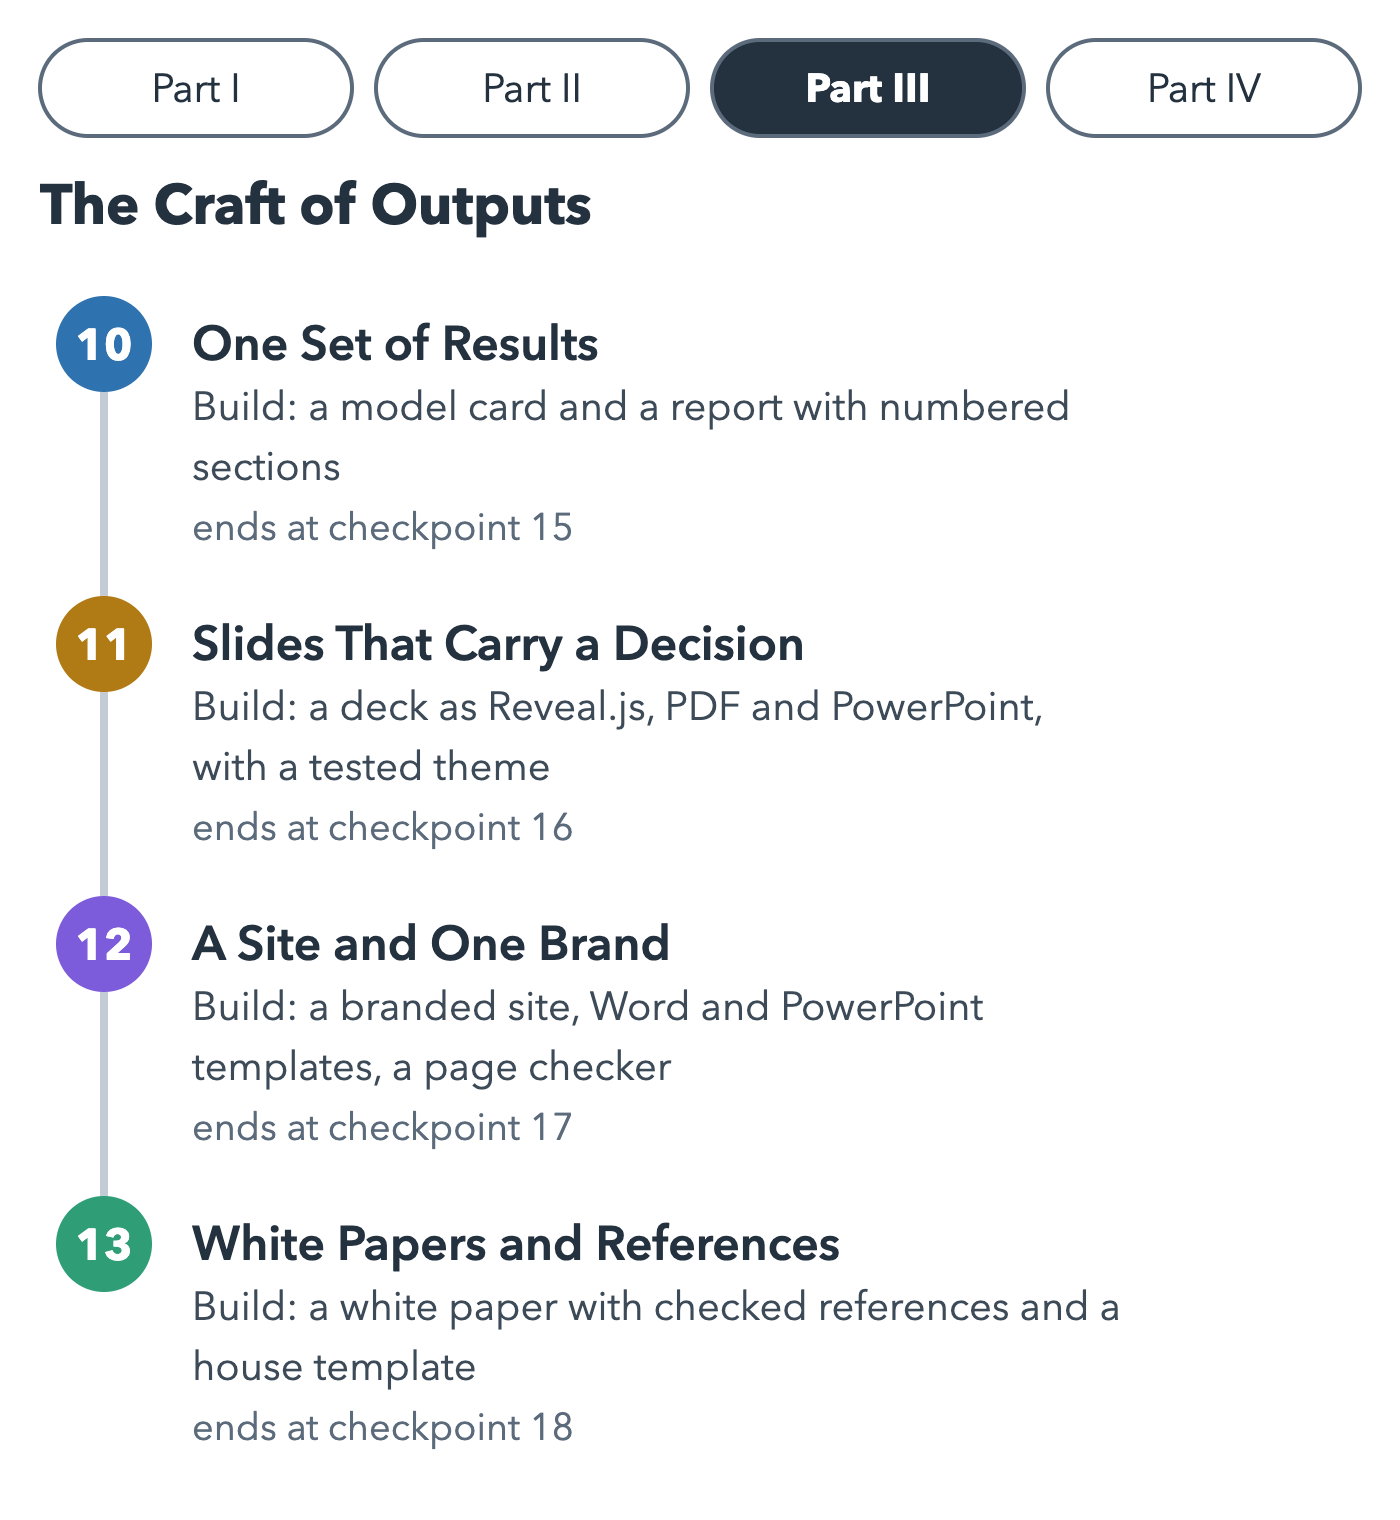
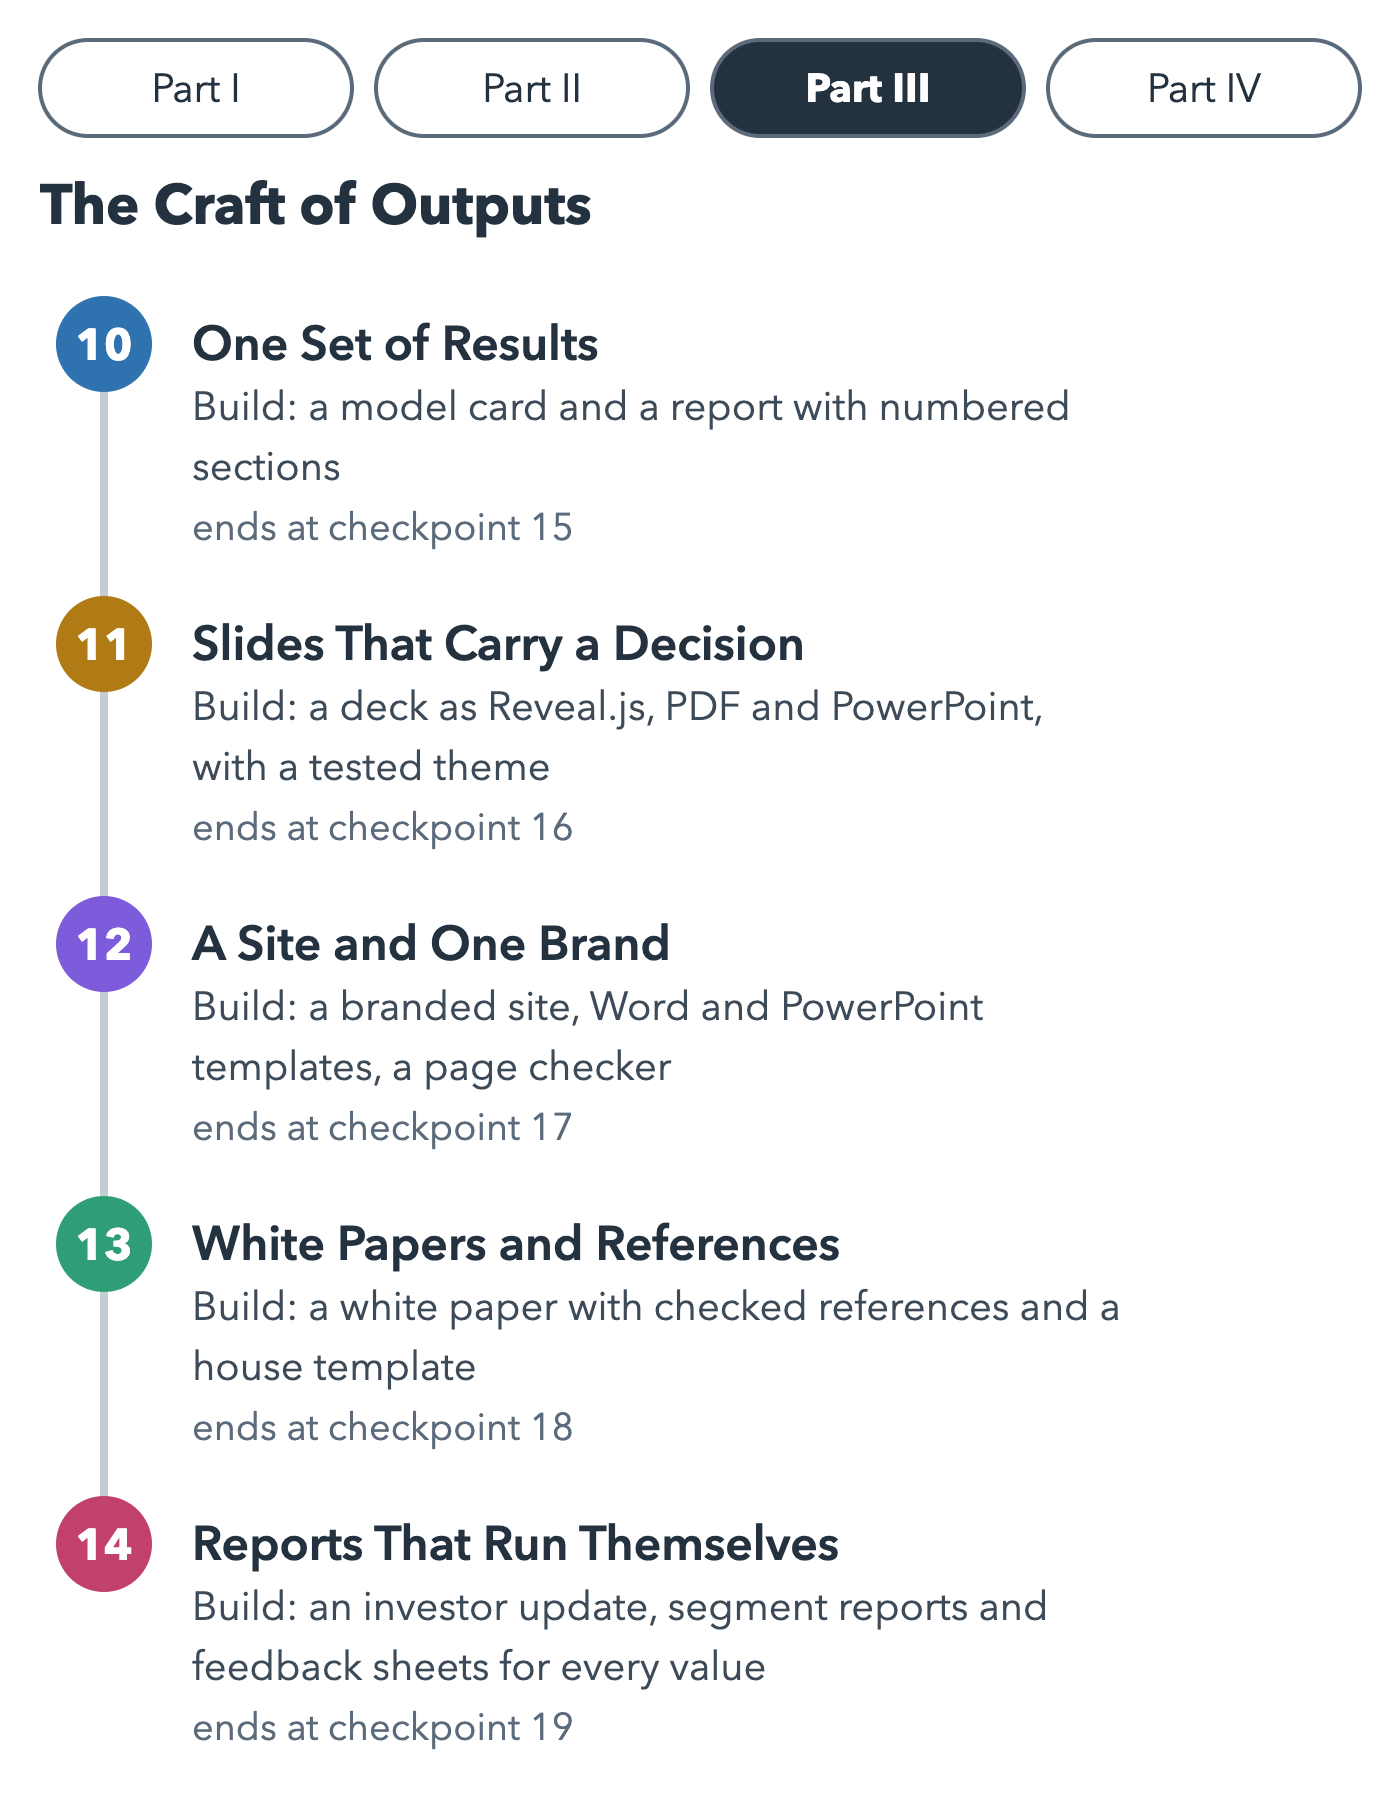
feat(book): reports that run themselves
Chapter 14 teaches parameterised documents: a default in a cell tagged
parameters, values passed with -P through papermill, each value validated
and every value-dependent word chosen by code and guarded. It builds Acme's
monthly investor update (business figures labelled synthetic on every
number, model figures real), a one-page report per customer segment, and a
script that renders and checks every month and segment; and, for teachers,
a feedback sheet per section from a synthetic gradebook, with group totals
only. It explains where a parameterised document's outputs land in a
website project. Prompts dry-run verbatim from checkpoint 18 and the
feedback example. English-only until translated.

Claude-Session: https://claude.ai/code/session_01RNuE4NzExiAHTTW4Fw6Qiy

diff --git a/book/scripts/thaw.py b/book/scripts/thaw.py
@@ -39,6 +39,13 @@ INPUTS = {
                                         "../checkpoints/18-eval-whitepaper/model-card.qmd",
                                         "../checkpoints/18-eval-whitepaper/references.bib"],
                                        ("18-eval-whitepaper",)),
+    "checkpoints/19-eval-params": (["../checkpoints/19-eval-params/update.qmd",
+                                    "../checkpoints/19-eval-params/segment.qmd",
+                                    "../checkpoints/19-eval-params/data",
+                                    "../checkpoints/19-eval-params/src/acme_eval/params.py",
+                                    "../examples/feedback/feedback.qmd",
+                                    "../examples/feedback/data"],
+                                   ("19-eval-params",)),
 }
 
 

diff --git a/book/scripts/roadmaps.py b/book/scripts/roadmaps.py
@@ -34,6 +34,7 @@ META = {
     "slides": ("Build: a deck as Reveal.js, PDF and PowerPoint, with a tested theme", "ends at checkpoint 16"),
     "sites": ("Build: a branded site, Word and PowerPoint templates, a page checker", "ends at checkpoint 17"),
     "white-papers": ("Build: a white paper with checked references and a house template", "ends at checkpoint 18"),
+    "parameters": ("Build: an investor update, segment reports and feedback sheets for every value", "ends at checkpoint 19"),
     "03-setup": ("Build: a computer that renders the test run", ""),
     "first-report": ("Build: a report you checked, fixed and committed", ""),
     "04-markdown": ("Build: london.md, its rules and environment", "ends at checkpoint 01"),
